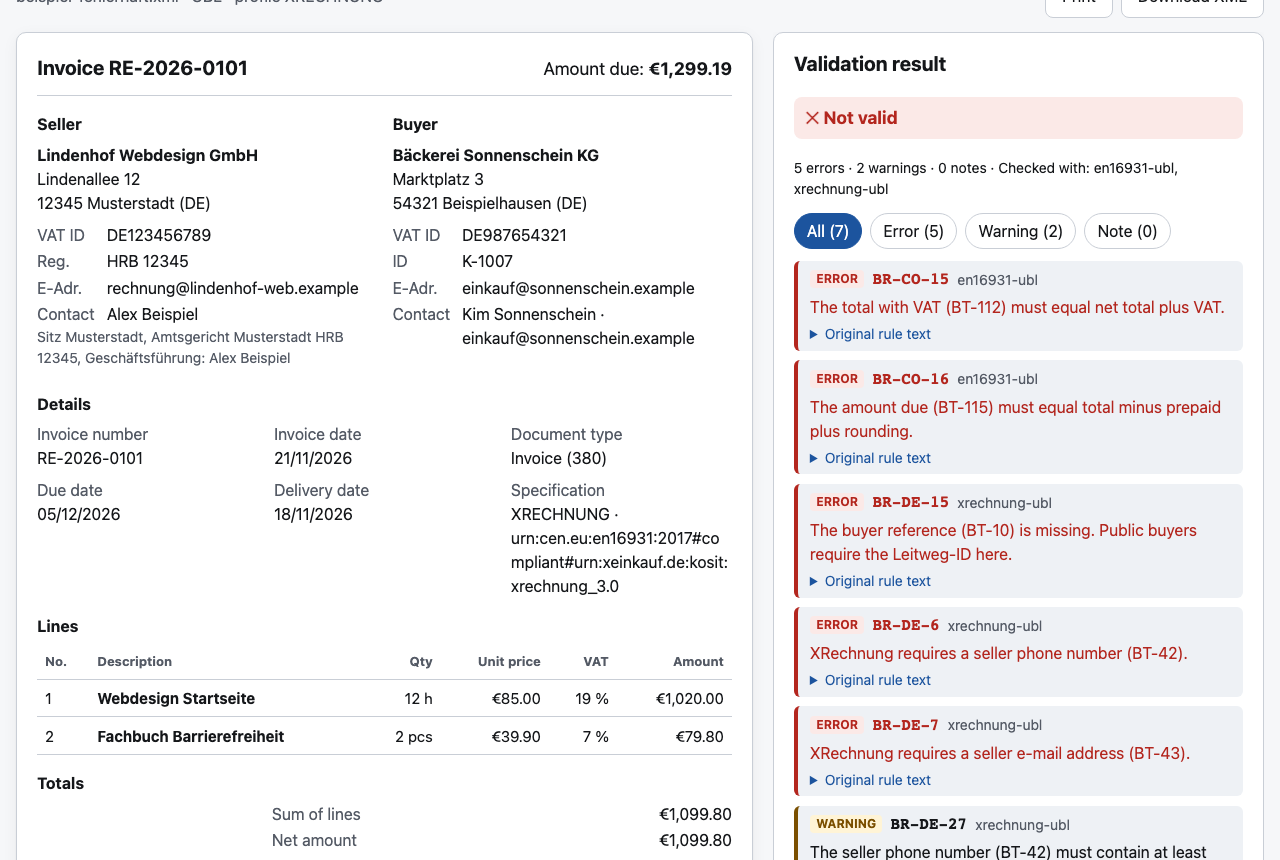
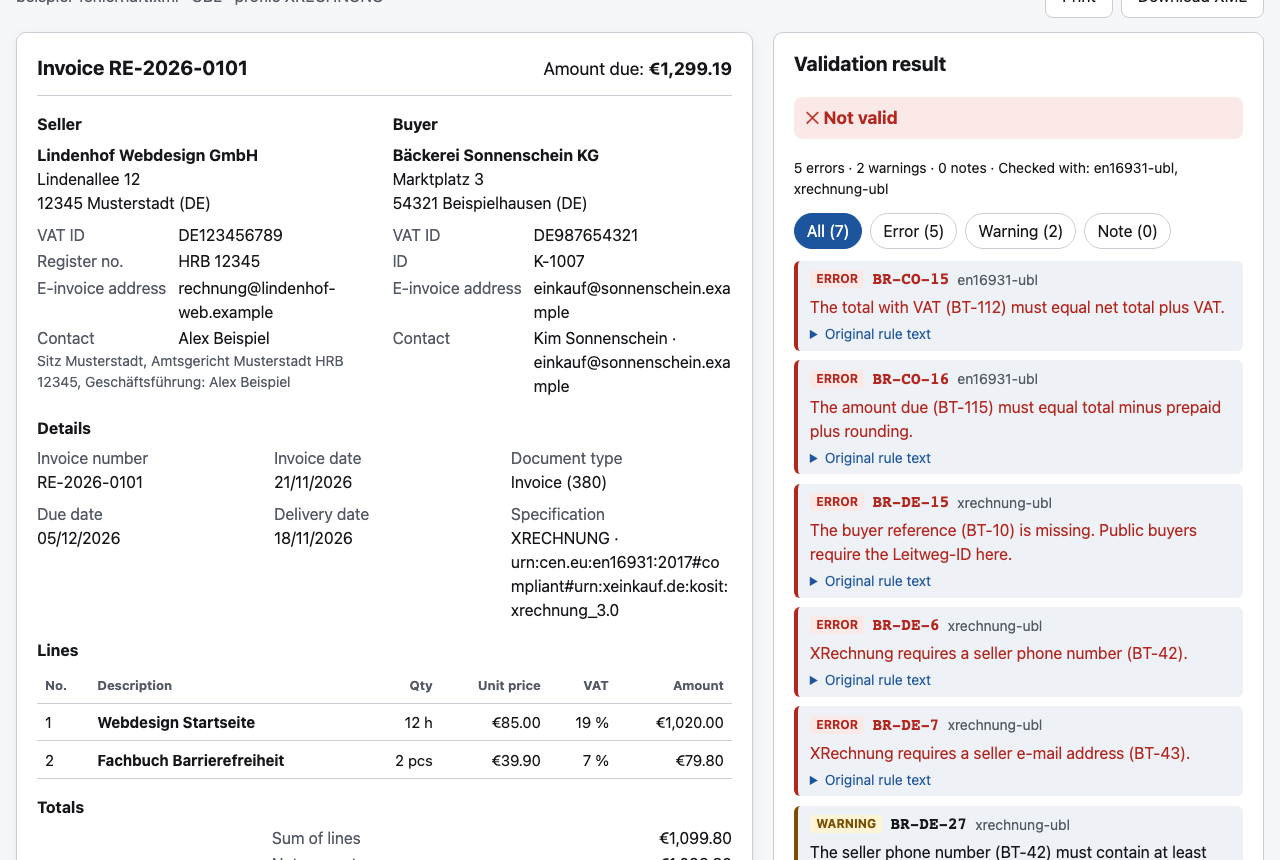
fix(web): translate registration and e-invoice address labels in the invoice view

diff --git a/apps/web/src/i18n/strings.ts b/apps/web/src/i18n/strings.ts
@@ -81,6 +81,8 @@ const de = {
   invDownload: 'Herunterladen',
   invNoLines: 'Diese Rechnung enthält keine Positionen.',
   invExemption: 'Befreiungsgrund',
+  invRegistration: 'Register-Nr.',
+  invEAddress: 'E-Rechnungsadresse',
 
   createTitle: 'Rechnung erstellen',
   createIntro: 'Formular ausfüllen, Vorschau prüfen und als ZUGFeRD-PDF oder XRechnung herunterladen. Absender, Kunden und Artikel können Sie lokal speichern.',
@@ -317,6 +319,8 @@ const en: Strings = {
   invDownload: 'Download',
   invNoLines: 'This invoice has no line items.',
   invExemption: 'Exemption reason',
+  invRegistration: 'Register no.',
+  invEAddress: 'E-invoice address',
 
   createTitle: 'Create an invoice',
   createIntro: 'Fill in the form, check the preview and download a ZUGFeRD PDF or XRechnung. Senders, customers and articles can be stored locally.',
@@ -551,6 +555,8 @@ const tr: Strings = {
   invDownload: 'İndir',
   invNoLines: 'Bu faturada kalem yok.',
   invExemption: 'Muafiyet gerekçesi',
+  invRegistration: 'Sicil no.',
+  invEAddress: 'E-fatura adresi',
 
   createTitle: 'Fatura oluştur',
   createIntro: 'Formu doldurun, önizlemeyi kontrol edin ve ZUGFeRD PDF veya XRechnung olarak indirin. Gönderenleri, müşterileri ve ürünleri yerel olarak kaydedebilirsiniz.',

diff --git a/apps/web/src/components/InvoiceView.tsx b/apps/web/src/components/InvoiceView.tsx
@@ -28,7 +28,7 @@ function AddressLines({ a }: { a: Address }) {
 }
 
 function PartyBlock({ title, p }: { title: string; p: Party }) {
-  const { lang } = useI18n();
+  const { lang, t } = useI18n();
   return (
     <section className="party" aria-label={title}>
       <h3>{title}</h3>
@@ -64,13 +64,13 @@ function PartyBlock({ title, p }: { title: string; p: Party }) {
         ))}
         {p.legalRegistrationId && (
           <>
-            <dt>Reg.</dt>
+            <dt>{t('invRegistration')}</dt>
             <dd>{p.legalRegistrationId.id}</dd>
           </>
         )}
         {p.electronicAddress && (
           <>
-            <dt>E-Adr.</dt>
+            <dt>{t('invEAddress')}</dt>
             <dd>{p.electronicAddress.id}</dd>
           </>
         )}
